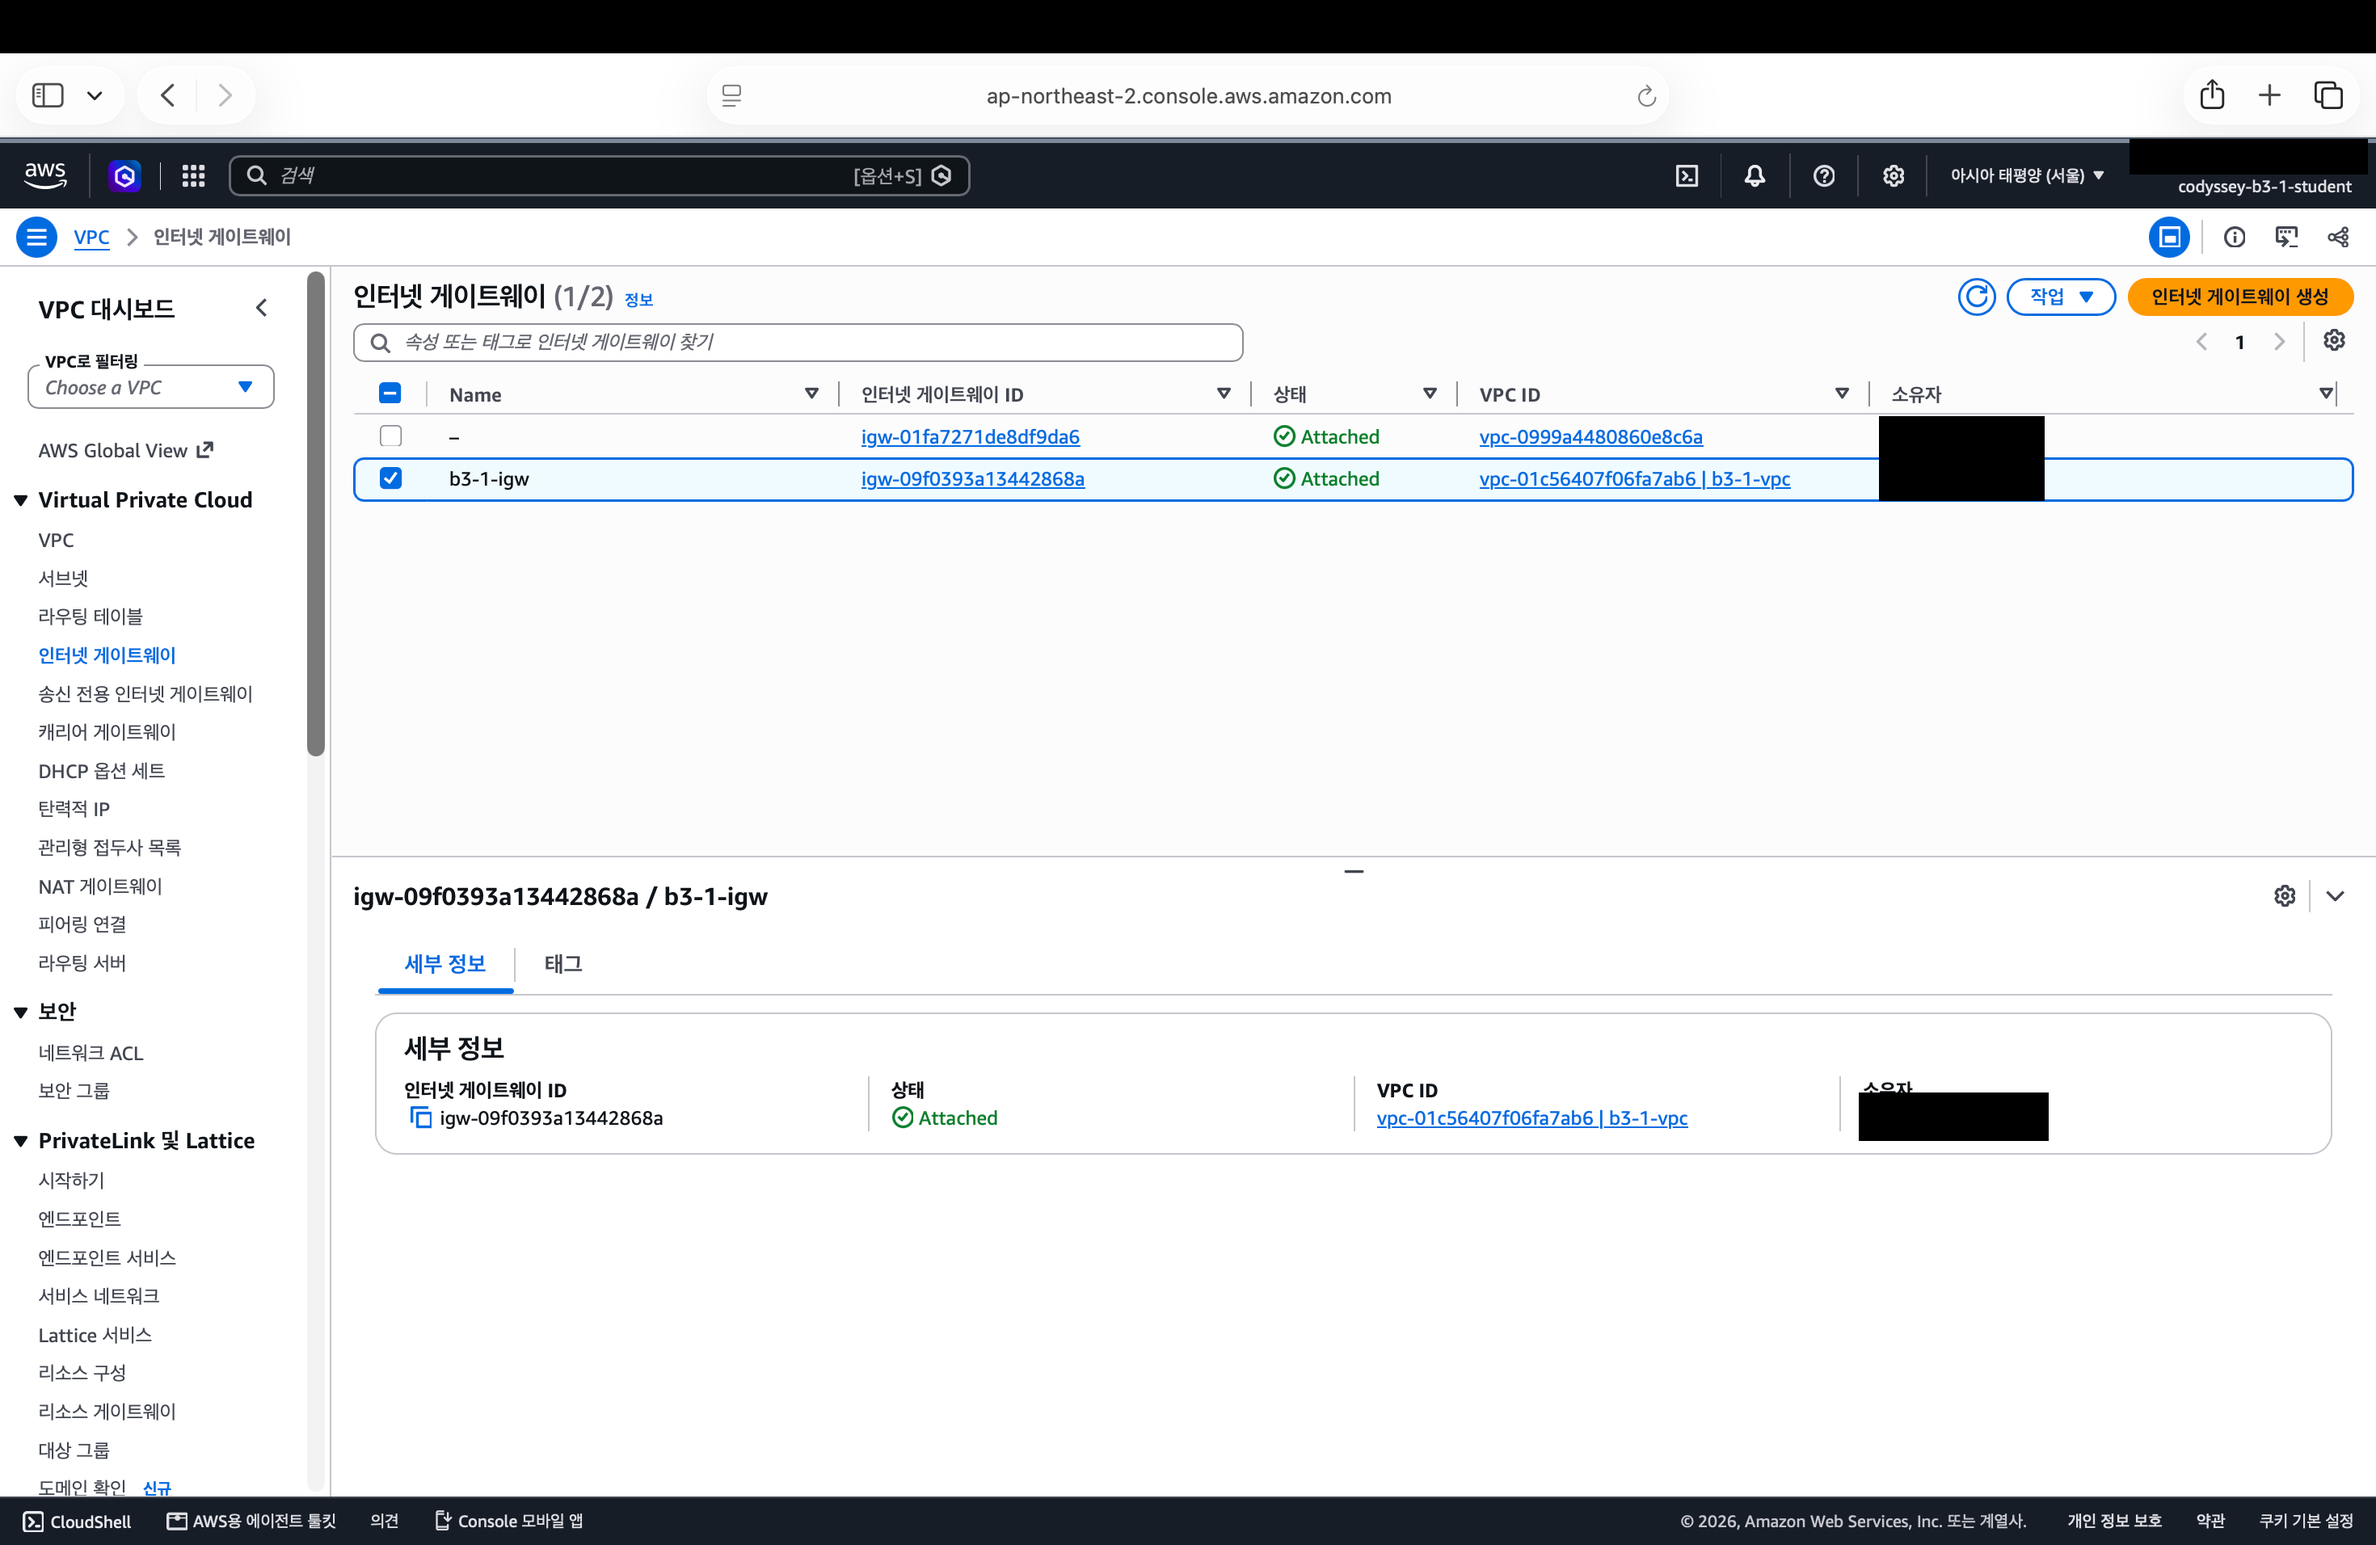
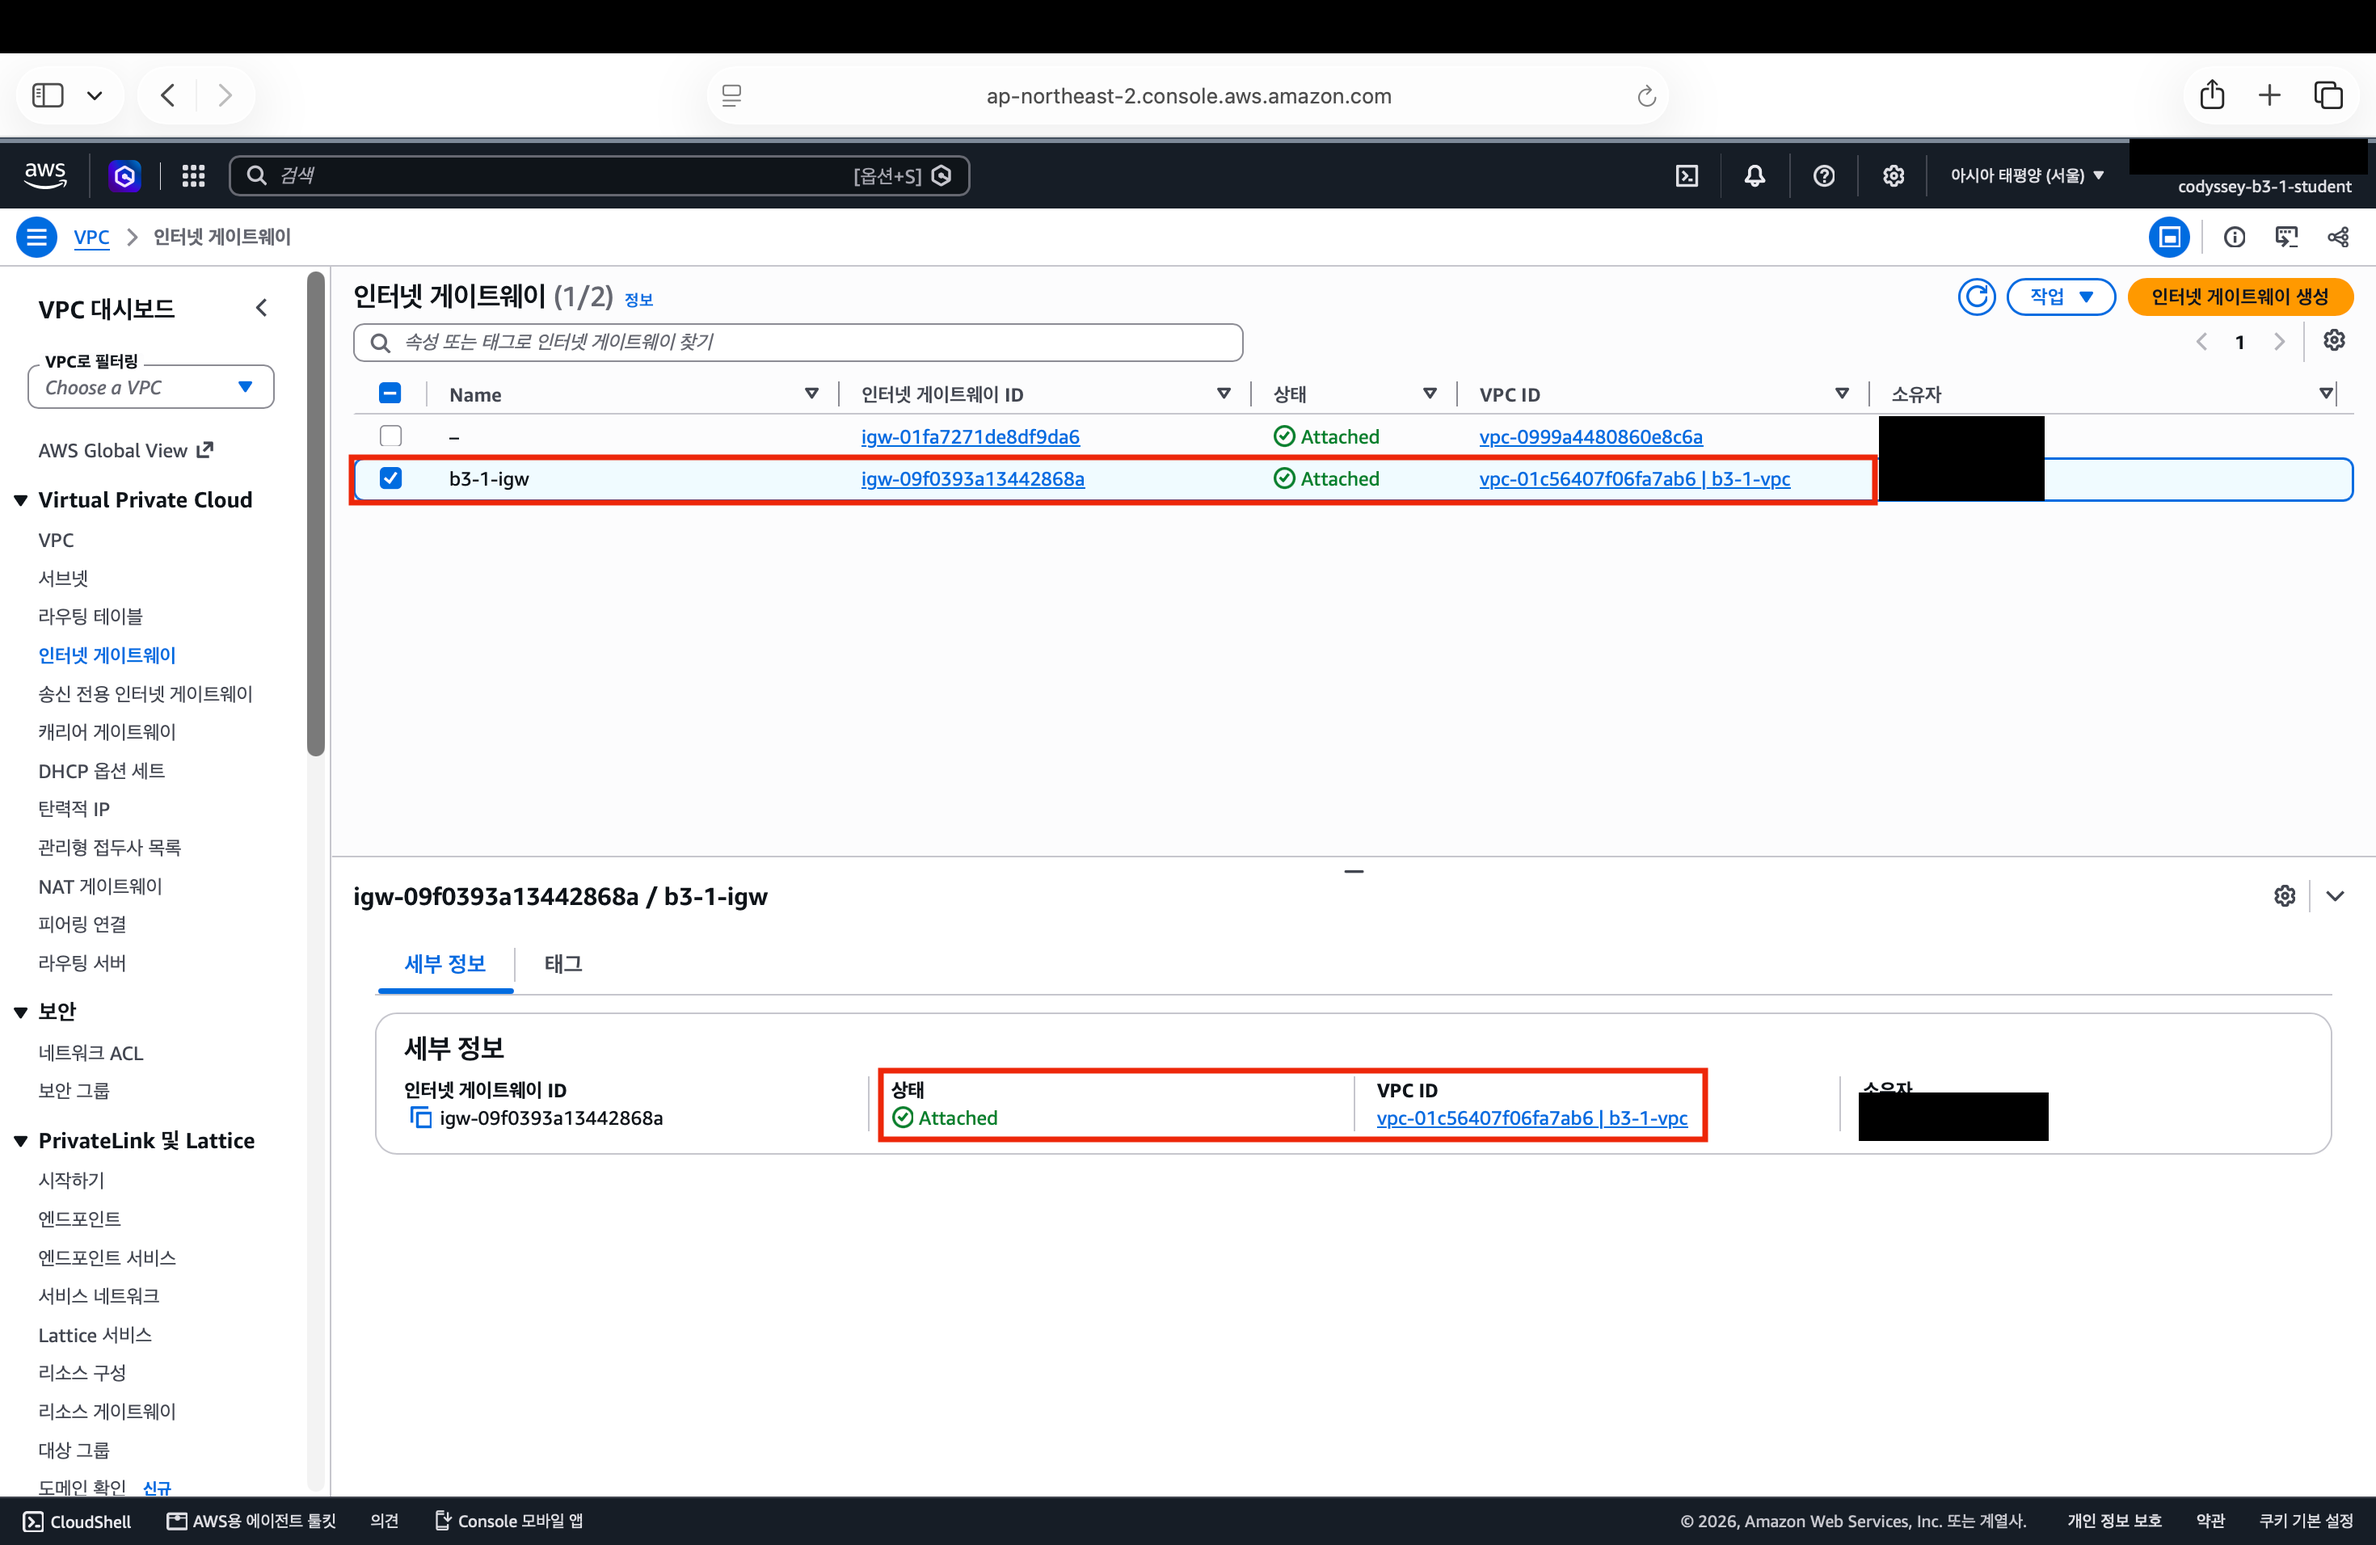
docs: highlight key areas of E01 evidence with red frames
Red outlines mark what each capture proves; the 항목 1 page notes that
the frames were added afterwards. Unframed masked copies are kept
outside the repo.

Changed region(s): [[0.1548, 0.2777, 0.8048, 0.3394], [0.3714, 0.6789, 0.7429, 0.7406]]

diff --git a/docs/rubric/항목 1 (E01~E05).md b/docs/rubric/항목 1 (E01~E05).md
@@ -1,6 +1,6 @@
 # 항목 1 — 구성과 동작 증거 (E01~E05)
 
-평가자에게 보여 줄 스크린샷 모음이다. 이미지는 `img/evidence/`에 있고, 계정 ID와 내 공인 IP는 가렸다.
+평가자에게 보여 줄 스크린샷 모음이다. 이미지는 `img/evidence/`에 있고, 계정 ID와 내 공인 IP는 가렸다. 빨간 테두리는 볼 곳을 표시하려고 나중에 그린 것이다.
 
 ## B3-1-E01
 
